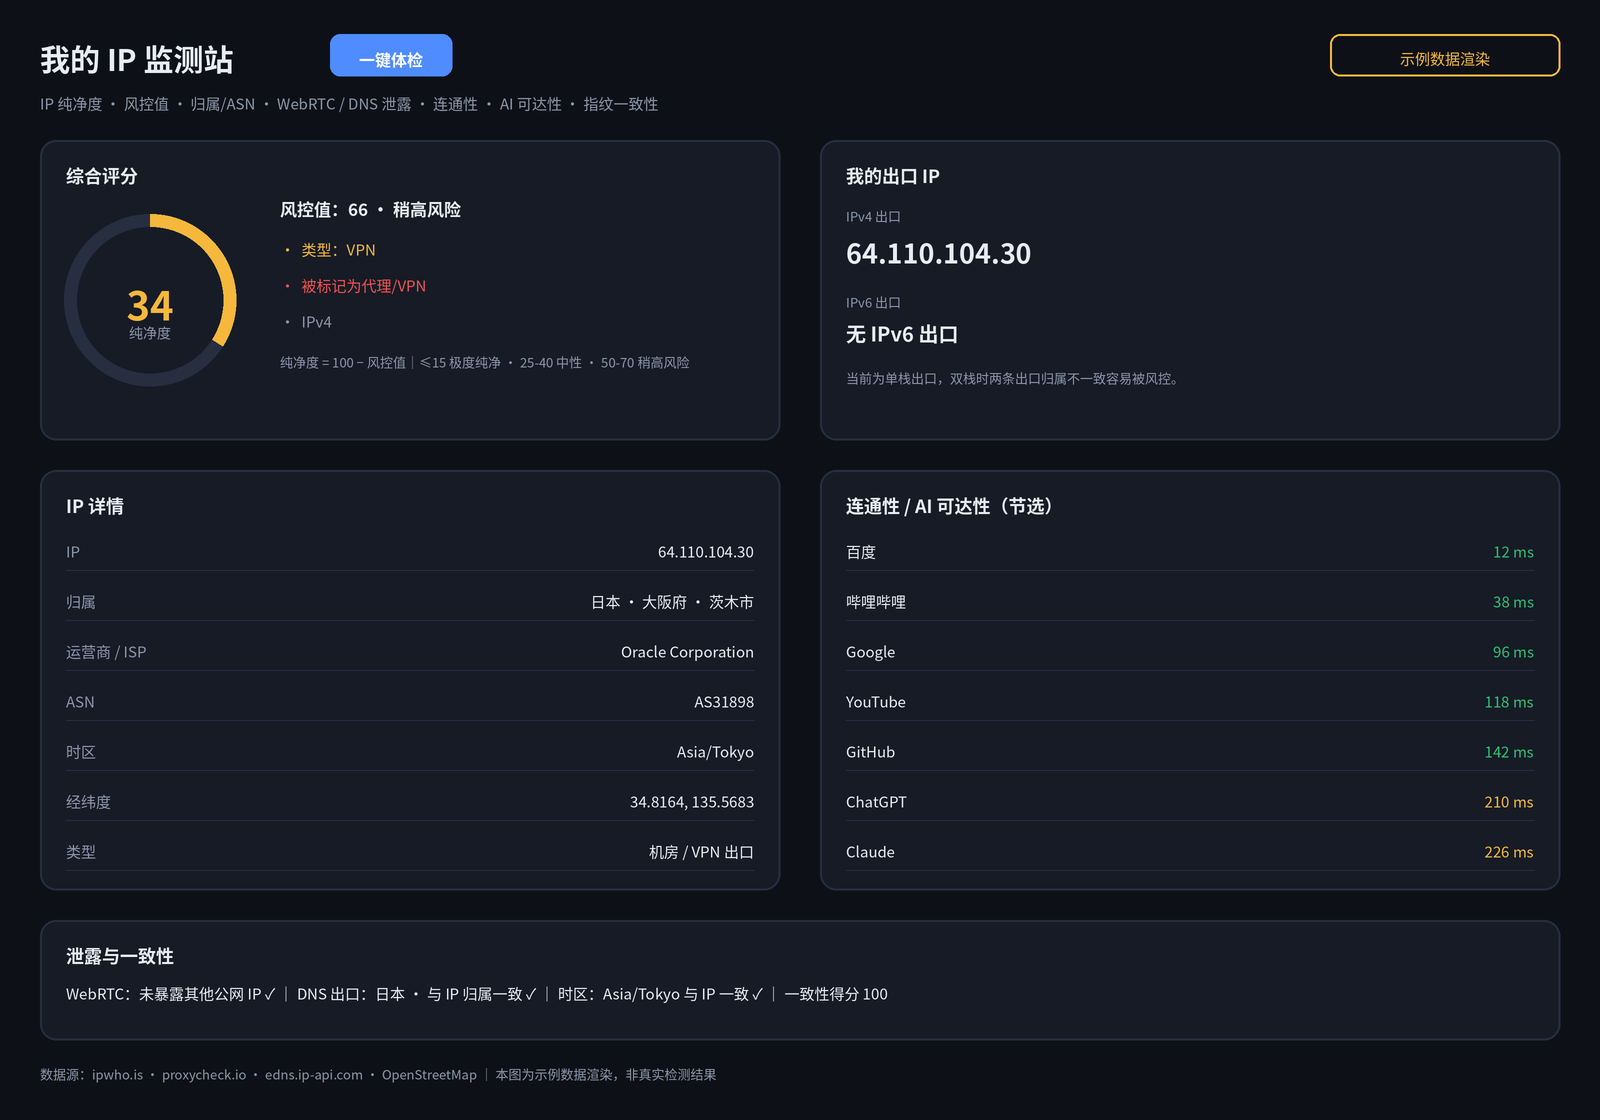
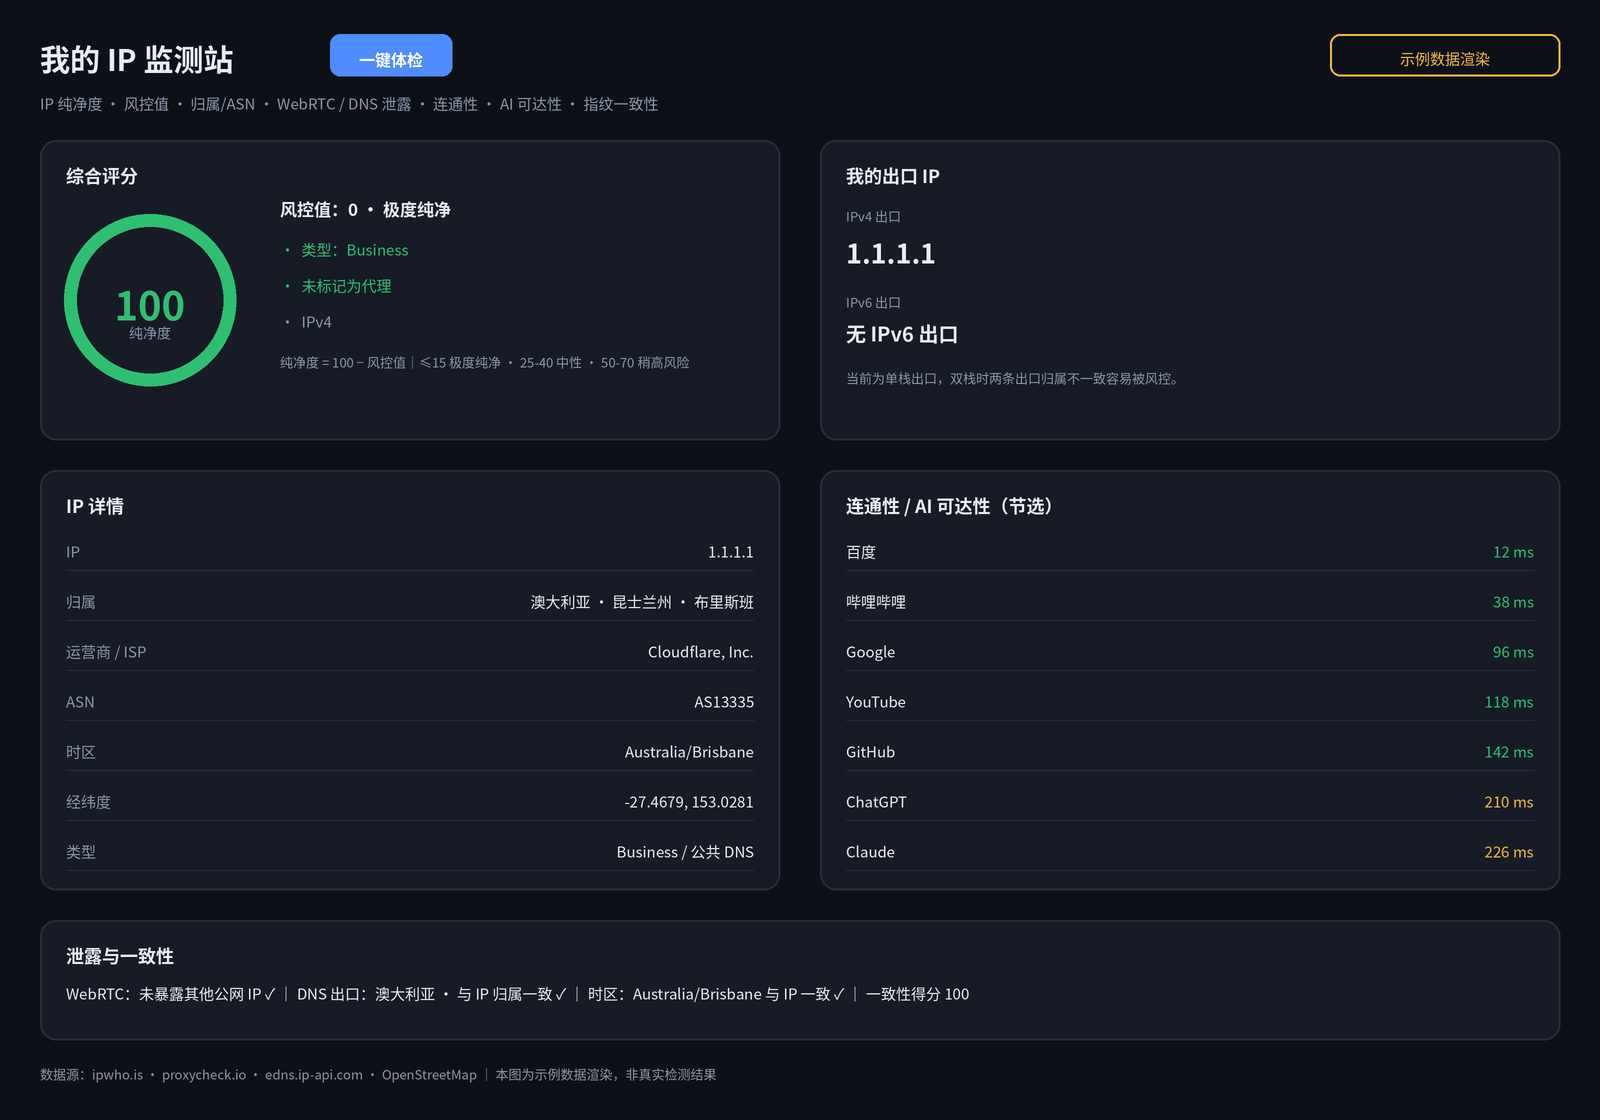
fix：去除 README 与页面中的个人域名/IP，预览图改用公共示例数据

diff --git a/index.html b/index.html
@@ -118,7 +118,7 @@ ul.check{padding-left:20px;margin:6px 0}
 <div class="card" style="margin-top:14px">
   <h2>查任意 IP <span class="r">学 ping0 / IPSuper 的单 IP 画像</span></h2>
   <div class="row">
-    <input type="text" id="qIp" placeholder="输入任意 IPv4 / IPv6，如 64.110.104.30">
+    <input type="text" id="qIp" placeholder="输入任意 IPv4 / IPv6，如 1.1.1.1">
     <button onclick="queryIp()">查询</button>
   </div>
   <div id="qResult" style="margin-top:10px"></div>
@@ -179,7 +179,7 @@ ul.check{padding-left:20px;margin:6px 0}
   <a href="https://ping0.cc" target="_blank" rel="noopener">ping0.cc</a>、
   <a href="https://ipsuper.com" target="_blank" rel="noopener">ipsuper.com</a>、
   <a href="https://scamalytics.com/ip" target="_blank" rel="noopener">Scamalytics</a> 交叉复核。<br>
-  我的 IP 监测站 · 纯静态页面，可部署在 Cloudflare Pages（如 ip.ymaym.top）。
+  我的 IP 监测站 · 纯静态页面，可部署在 Cloudflare Pages 并绑定自己的域名。
 </footer>
 </div>
 

diff --git a/README.md b/README.md
@@ -10,7 +10,7 @@
 ![Free](https://img.shields.io/badge/费用-免费额度-3fb950)
 ![版本](https://img.shields.io/badge/版本-v1.1-blue)
 
-> 本仓库只包含代码，不包含任何人的检测数据。下方截图为**示例数据渲染**（演示 IP 为一台公开的 Oracle 大阪机房地址），不是任何人的真实检测结果。
+> 本仓库只包含代码，不包含任何人的检测数据。下方截图为**示例数据渲染**（演示 IP 为公共 DNS 地址 1.1.1.1），不是任何人的真实检测结果。
 > 检测历史只存在你自己的浏览器 localStorage 里，不上传、不经过任何服务器。
 
 **目录**：[版本亮点](#-版本亮点) · [效果预览](#-效果预览) · [特性](#-特性) · [快速部署](#-快速部署) · [使用方法](#-使用方法) · [评分口径](#-评分口径) · [与同类站点对比](#-与同类站点对比) · [常见问题](#-常见问题) · [隐私与安全](#-隐私与安全) · [已知边界与路线图](#-已知边界与路线图) · [版本历史](#-版本历史)
@@ -79,7 +79,7 @@
 2. 选择本仓库 `ym-ip`
 3. 构建设置：**框架预设选「无」，构建命令留空，输出目录填 `/`**（纯静态，不要画蛇添足）
 4. 保存并部署，得到一个 `xxx.pages.dev` 地址，打开能测即成功
-5. （可选）项目 →「自定义域」→ 绑定自己的子域名，例如 `ip.ymaym.top`，DNS 与 HTTPS 证书自动完成
+5. （可选）项目 →「自定义域」→ 绑定自己的子域名，例如 `ip.example.com`，DNS 与 HTTPS 证书自动完成
 
 之后每次往仓库推新版，Pages 自动重新部署。
 
